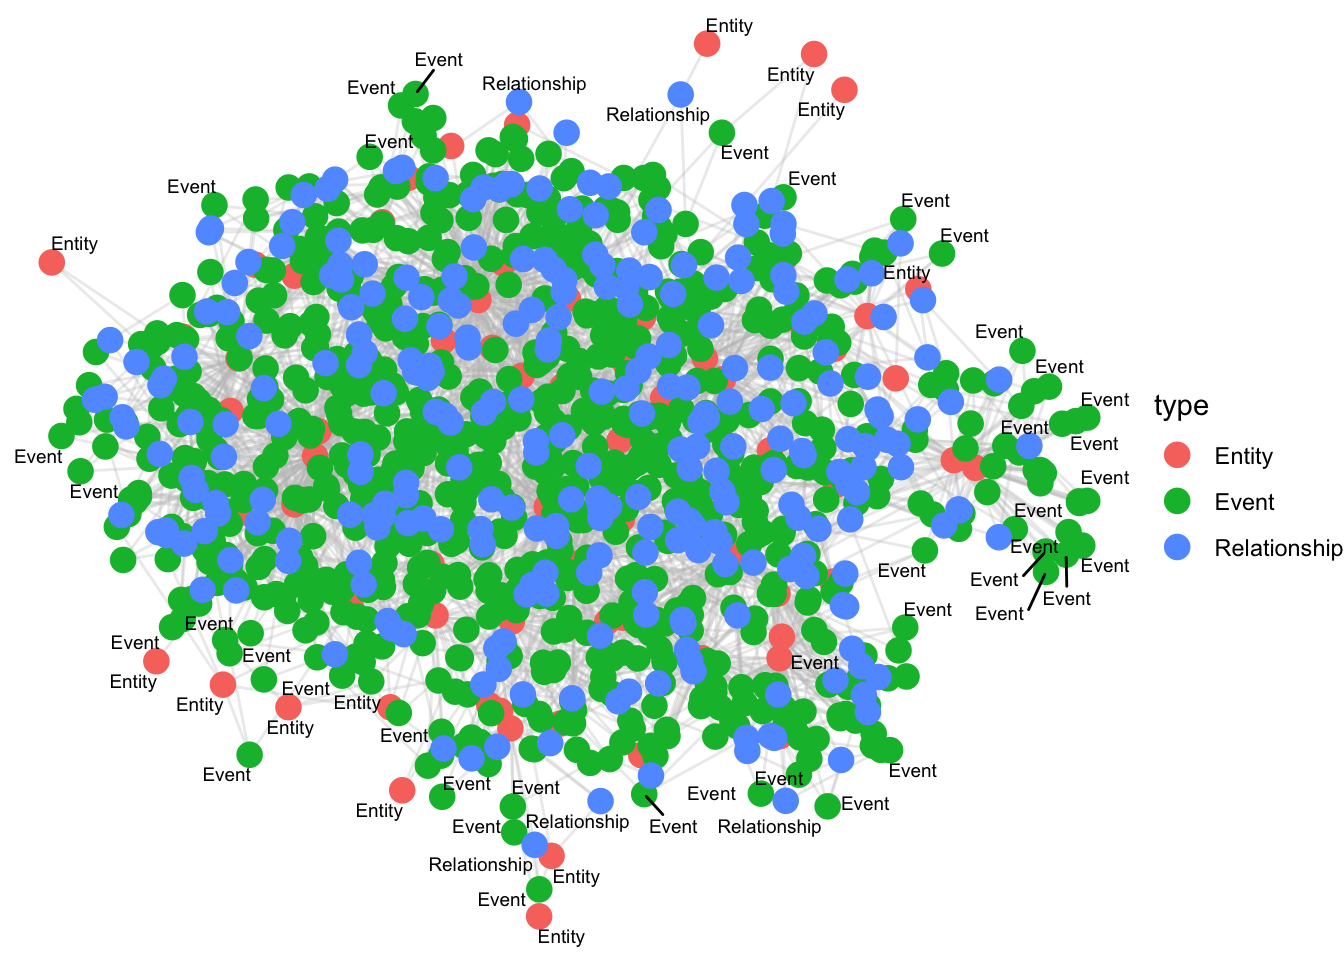
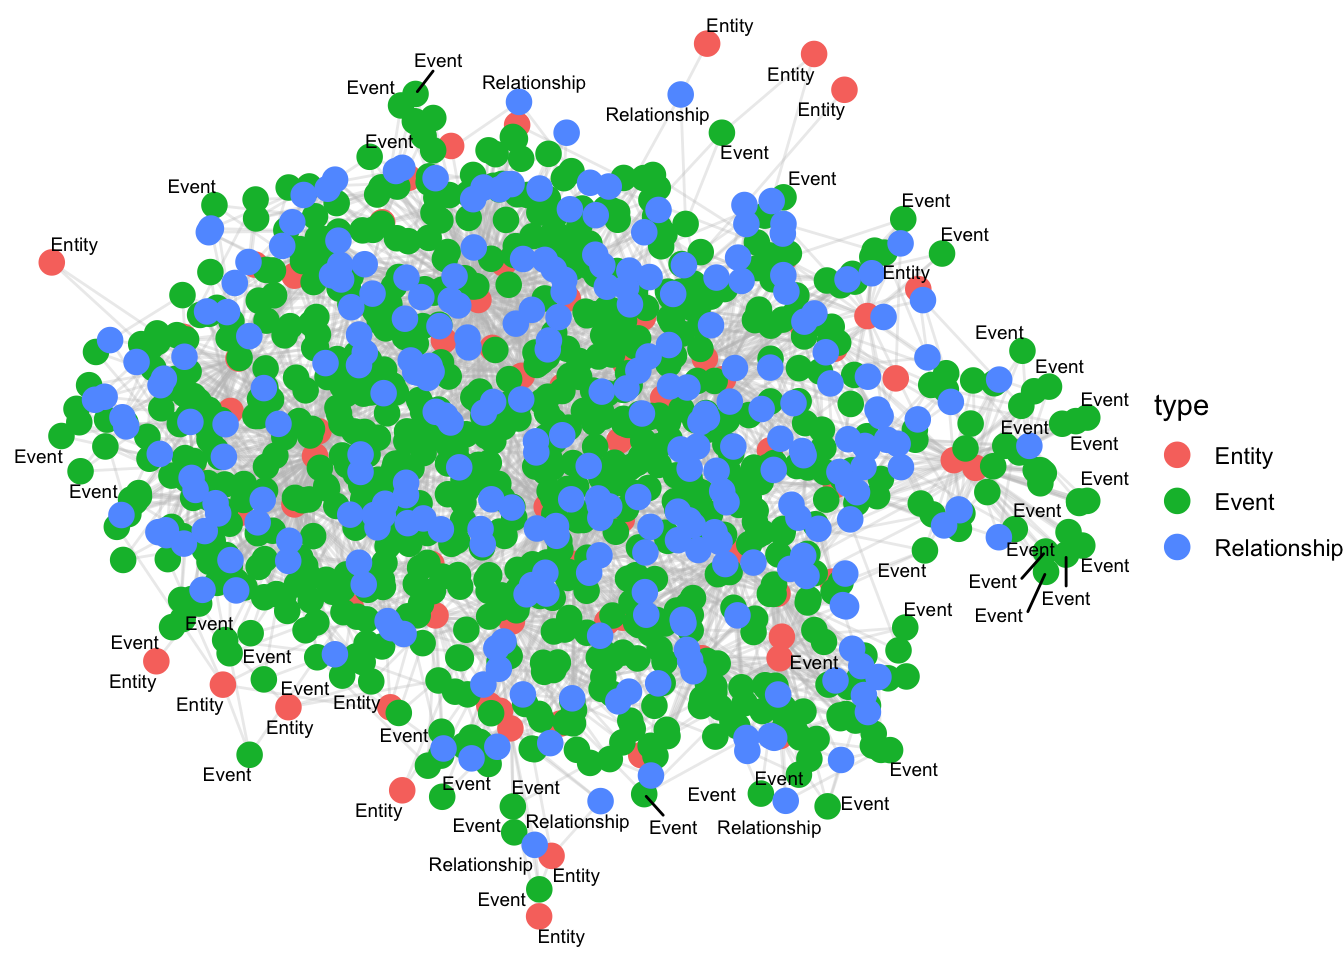
commit

diff --git a/_site/Take-home_Ex/Take-home_Ex03/MC3.html b/_site/Take-home_Ex/Take-home_Ex03/MC3.html
@@ -322,7 +322,7 @@ pre > code.sourceCode > span > a:first-child::before { text-decoration: underlin
   ..$ :List of 2
   .. ..$ is_inferred: logi [1:3226] TRUE FALSE TRUE TRUE TRUE TRUE ...
   .. ..$ type       : chr [1:3226] NA "sent" NA NA ...
- $ :&lt;environment: 0x12b1552a8&gt; 
+ $ :&lt;environment: 0x1238e48d0&gt; 
  - attr(*, "active")= chr "nodes"</code></pre>
 </div>
 </div>
@@ -548,6 +548,26 @@ pre > code.sourceCode > span > a:first-child::before { text-decoration: underlin
 <p></p><div style="width: 100% ; height: 400px ; text-align: center; box-sizing: border-box; -moz-box-sizing: border-box; -webkit-box-sizing: border-box;" class="muted well">Shiny applications not supported in static R Markdown documents</div><p></p>
 </div>
 </div>
+</section>
+<section id="storyboard-of-shiny-application" class="level1">
+<h1>Storyboard of Shiny Application</h1>
+<p>Identifying Suspicious Communication Patterns Using Visual Analytics</p>
+<p>The combination of the daily communication volume bar chart, hourly communication volume bar chart, and the hourly heat map provides a powerful means to detect temporal anomalies and shifts in communication behavior:</p>
+<p><img src="image/Screenshot2025-06-15at3.24.51PM.png" alt="test" style="max-width: 100%;"></p>
+<p>Daily Communication Volume Bar Chart:</p>
+<p>This chart displays the number of communications per day, overlaid with a red dashed trend line. It allows analysts to quickly spot days with unusually high or low activity, as well as to observe overall trends—such as gradual increases or decreases in daily volume. A sudden spike or drop may indicate an event or coordinated action that warrants further attention.</p>
+<p><img src="image/Screenshot2025-06-15at3.30.17PM.png" alt="test" style="max-width: 100%;"></p>
+<p>Hourly Communication Volume Bar Chart:</p>
+<p>By aggregating the number of communications by hour across the dataset and plotting a trend line, this chart reveals the typical daily rhythm of communications. Significant deviations from the expected hourly pattern—such as an unusual surge in late-night or early-morning activity—can be a red flag for covert or out-of-pattern behavior.</p>
+<p><img src="image/Screenshot2025-06-15at3.31.54PM.png" alt="test" style="max-width: 100%;"></p>
+<p>Hourly Communication Heat Map:</p>
+<p>The heat map visualizes the intensity of communications for each hour of each day, making it easy to spot recurring peaks, lulls, or abrupt changes. Consistent high activity during certain hours (e.g., 8–11 AM) may be normal, but a shift in these patterns—such as a new peak at an odd hour or an isolated day with unusual activity—can signal suspicious coordination or attempts to evade detection.</p>
+<p>Together, these temporal visualizations enable analysts to: • Detect when communication patterns deviate from the established norm. • Pinpoint specific dates and hours where suspicious activity is concentrated. • Observe whether suspicious patterns are isolated incidents or part of a broader trend.</p>
+<p><img src="image/Screenshot2025-06-15at3.34.37PM.png" alt="test" style="max-width: 100%;"></p>
+<p>The Role of the Communication Network Graph The communication network graph provides a structural snapshot of the network at any selected date and time. By filtering the network to a specific window (identified as suspicious via the temporal charts), analysts can: • Visualize which entities are most active or central during periods of interest. • Identify clusters, bridges, or unusually dense connections that may indicate coordinated groups or key facilitators. • Assess the scale and reach of the network at critical moments, helping to distinguish between routine communication and orchestrated events. This graph is essential for understanding not just when, but who is involved in suspicious activity, and how information or influence flows between individuals and organizations.</p>
+<p><img src="image/Screenshot2025-06-15at3.33.36PM.png" alt="test" style="max-width: 100%;"></p>
+<p>Deep Dive: The Messages Tab Once a suspicious period is identified through the above visualizations, the messages taballows for targeted review of the actual message content exchanged during that window. This enables: • Direct examination of the nature and context of communications, confirming whether the content aligns with legitimate business or hints at illicit coordination. • Identification of code words, unusual instructions, or references to sensitive operations. • Verification of relationships and roles among key entities, as messages often reveal hierarchy, influence, and intent. By correlating message content with network structure and temporal anomalies, analysts can move from pattern detection to concrete evidence gathering, supporting investigations into illegal or unethical activities.</p>
+<p>In summary: This integrated visual analytics workflow enables rapid detection of suspicious communication patterns, structural analysis of the network during critical periods, and in-depth review of message content. It streamlines the process of moving from anomaly detection to actionable intelligence, making it significantly easier to identify and confirm illegal activities and the roles of key entities involved.</p>
 </section>
 
 </main>
